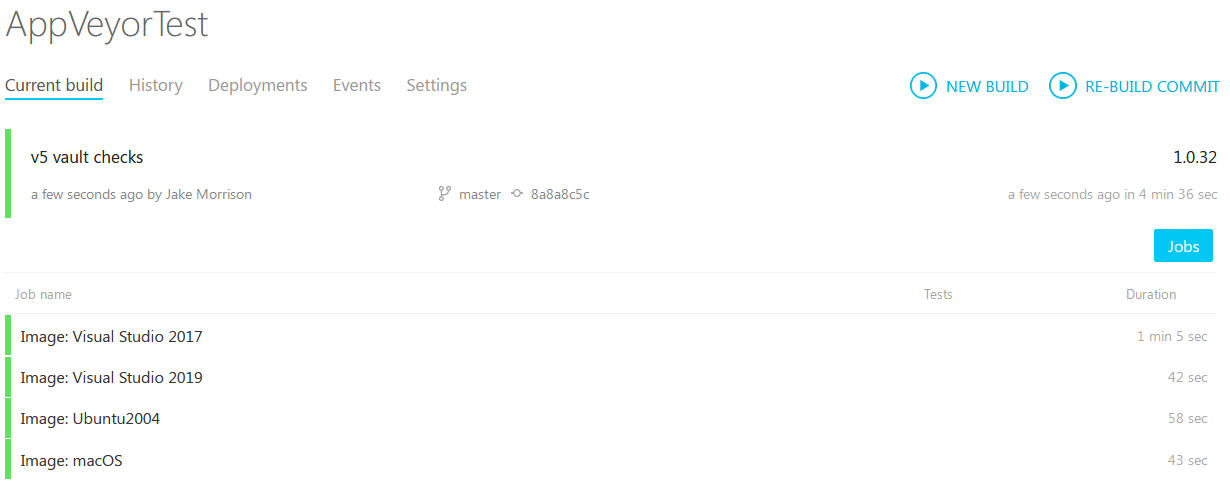
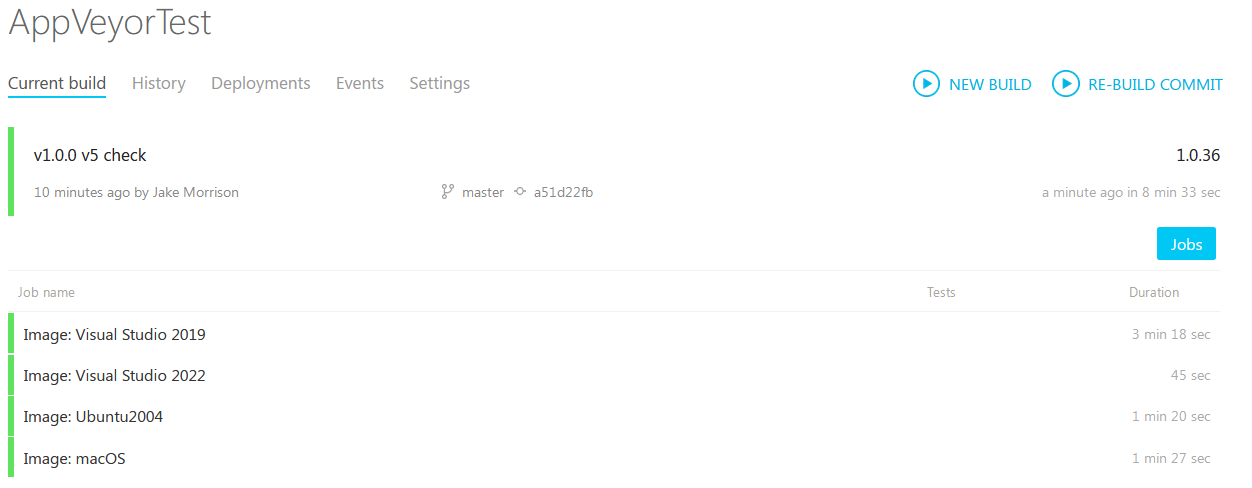
appveyor and aws buildspec updates

diff --git a/docs/Catesta-AppVeyor.md b/docs/Catesta-AppVeyor.md
@@ -2,7 +2,7 @@
 
 ## Synopsis
 
-Scaffolds a new PowerShell module project intended for CI/CD workflow using * [AppVeyor](https://www.appveyor.com/).
+Scaffolds a new PowerShell module project intended for CI/CD workflow using [AppVeyor](https://www.appveyor.com/).
 
 ## Getting Started
 
@@ -13,14 +13,14 @@ Scaffolds a new PowerShell module project intended for CI/CD workflow using * [A
 
 1. You will [need an AppVeyor account](https://ci.appveyor.com/login).
 1. Create a new Project:
-    * ![AppVeyor New Project](../media/AppVeyor/appveyor_new_project.PNG "AppVeyor New Project")
+    * ![AppVeyor New Project](../media/AppVeyor/appveyor_new_project.PNG)
 1. Select where your code will come from:
-    * ![AppVeyor Repository Selection](../media/AppVeyor/appveyor_select_code_source.PNG "AppVeyor Repository Selection")
+    * ![AppVeyor Repository Selection](../media/AppVeyor/appveyor_select_code_source.PNG)
     * Authenticate to your repository source as needed
 1. Create your project using Catesta
 
     ```powershell
-    New-PowerShellProject -CICDChoice 'AppVeyor' -DestinationPath c:\path\AppVeyor
+    New-PowerShellProject -CICDChoice 'AppVeyor' -DestinationPath C:\path\AppVeyor
     ```
 
     1. The Plaster logo will be displayed and you will see your first prompt
@@ -51,20 +51,23 @@ Scaffolds a new PowerShell module project intended for CI/CD workflow using * [A
 1. Upload to your desired repository which now has a triggered/monitored build action.
 1. Evaluate results of your build and display your AppVeyor badge proudly!
 
-![AppVeyor project created by Catesta](../media/AppVeyor/appveyor_build_results.PNG "AppVeyor project created by Catesta")
+![AppVeyor project created by Catesta](../media/AppVeyor/appveyor_build_results.PNG)
 
 ## Notes
 
 Additional Reading:
 
 * [Build configuration](https://www.appveyor.com/docs/build-configuration/)
+* [Build environment](https://www.appveyor.com/docs/build-environment/)
 * [Specializing matrix job configuration](https://www.appveyor.com/docs/build-configuration/#specializing-matrix-job-configuration)
 * [appveyor.yml reference](https://www.appveyor.com/docs/appveyor-yml/)
 
 ## Diagrams
 
-TBD
+### AppVeyor Integration with GitHub
+
+![Catesta PowerShell AppVeyor Diagram](../media/AppVeyor/catesta_appveyor_diagram.png)
 
 ## Example Projects
 
-TBD
+* [PoshGram](https://github.com/techthoughts2/PoshGram)

diff --git a/.github/CHANGELOG.md b/.github/CHANGELOG.md
@@ -8,6 +8,7 @@ and this project adheres to [Semantic Versioning](https://semver.org/spec/v2.0.0
 ## [1.0.0]
 
 - Catesta template module changes
+  - All build files - added commented line for easily retrieving modules/variables/env variables are available in the build image
   - AWS CodeBuild CI/CD changes:
     - ```PowerShellCodeBuildGit.yml```
       - Now enables user to specify Branch name on Webhook filter. Default is set to main.
@@ -21,6 +22,13 @@ and this project adheres to [Semantic Versioning](https://semver.org/spec/v2.0.0
       - Microsoft.PowerShell.SecretManagement bumped from ```1.0.0``` to ```1.1.1```
     - ```New-PowerShellProject.ps1``` & ```New-VaultProject.ps1```
       - Minor formatting updates
+  - Appveyor CI/CD changes:
+    - ```appveyor.yml```
+    - ```actions_bootstrap.ps1```
+      - Pester bumped from ```5.2.2``` to ```5.3.1```
+      - InvokeBuild bumped from ```5.8.0``` to ```5.8.8```
+      - PSScriptAnalyzer bumped from ```1.19.1``` to ```1.20.0```
+      - Microsoft.PowerShell.SecretManagement bumped from ```1.0.0``` to ```1.1.1```
   - ```tasks.json```
     - Adjusted formatting
     - Updated documentation
@@ -42,6 +50,11 @@ and this project adheres to [Semantic Versioning](https://semver.org/spec/v2.0.0
     - AWS
       - Updated ```Catesta-AWS.md```
       - Re-did several AWS diagrams and included raw drawio diagrams
+      - Updated screenshots
+    - AppVeyor
+      - Updated ```Catesta-AppVeyor.md```
+      - Added diagram
+      - Updated screenshots
 
 ## [0.12.4]
 
